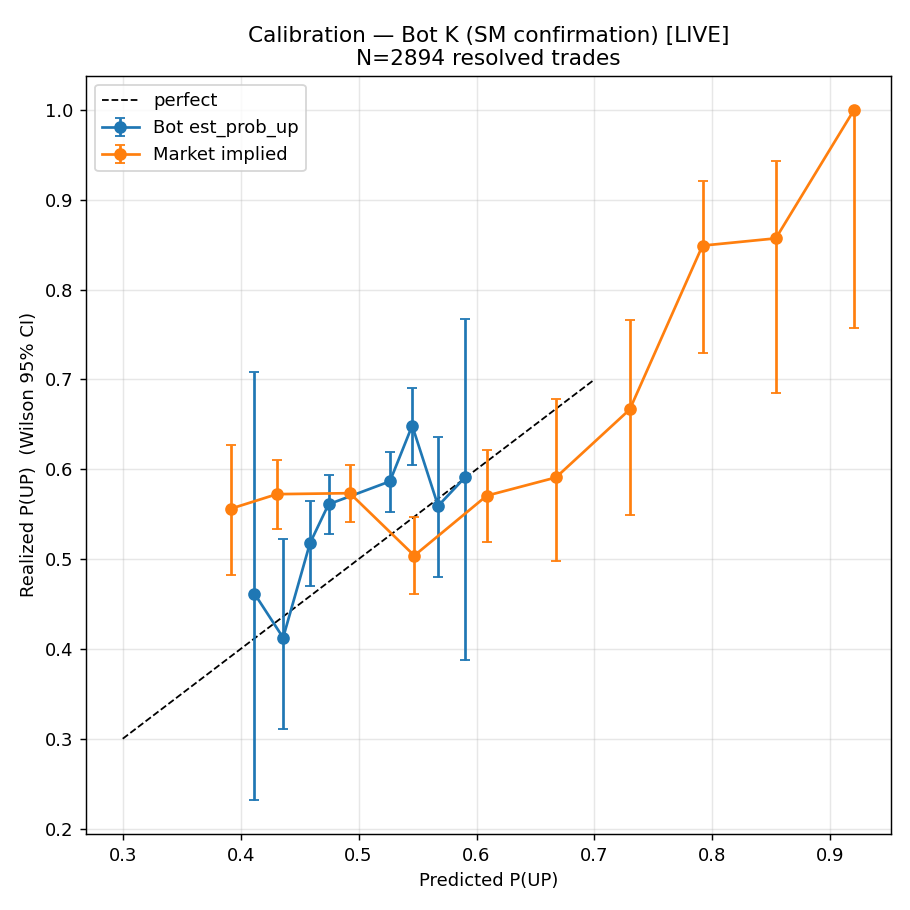
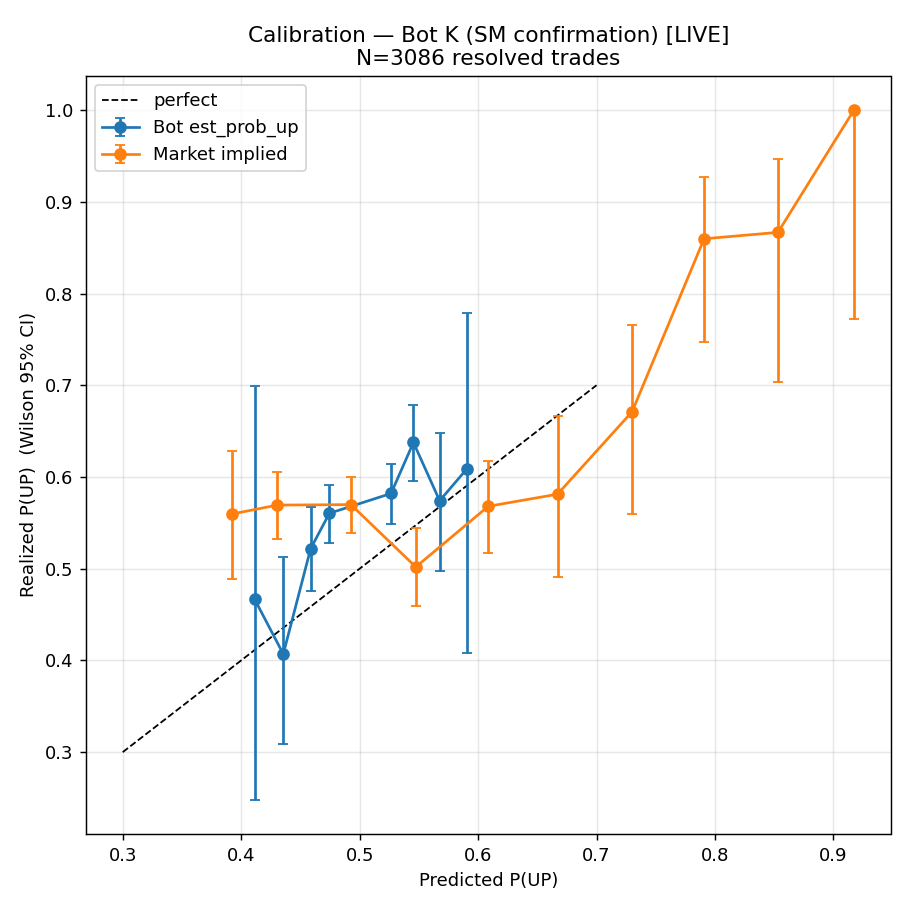
refactor(backtest): strip retired Bot G from validate_edge
Removes bot_g_signal_aligned from the BOTS array, docstring, and report
header; deletes its stale output directory. Tool now covers only the two
live bots (Bot K, Bot K2). Regenerated scorecard + charts.

diff --git a/backtest/validate_edge.py b/backtest/validate_edge.py
@@ -8,9 +8,7 @@ every trade carries its real resolution and PnL). For each bot it answers:
      signal engine add information, or would "just trust the order book" do as well?
   3. Where does the edge live / where does it leak (regime, config era, calibration)?
 
-Targets the two currently-live bots. Retired Bot G is kept for contrast — it had
-NO measurable edge and the market out-predicted it, which is the whole reason the
-K-series (SM confirmation + L1 floor) exists.
+Targets the two currently-live bots (Bot K, Bot K2).
 
 Outputs (read-only — nothing written back to any DB):
   backtest/edge_validation/<bot>/calibration.png
@@ -35,11 +33,10 @@ RUNTIME = REPO / "data_runtime"
 OUT = REPO / "backtest" / "edge_validation"
 OUT.mkdir(exist_ok=True)
 
-# live bots first; Bot G retained for contrast
+# the two currently-live bots
 BOTS = [
     ("bot_k_sm_confirmation", "Bot K (SM confirmation) [LIVE]"),
     ("bot_k2_l1_floor", "Bot K2 (L1 floor) [LIVE]"),
-    ("bot_g_signal_aligned", "Bot G (signal-aligned) [RETIRED]"),
 ]
 
 
@@ -191,7 +188,7 @@ def scorecard(df, name) -> str:
 
 
 def main():
-    report = ["EDGE VALIDATION — live K bots vs retired Bot G",
+    report = ["EDGE VALIDATION — live K bots (Bot K, Bot K2)",
               "(ground-truth resolved trades; read-only)"]
     for slug, name in BOTS:
         (OUT / slug).mkdir(exist_ok=True)
